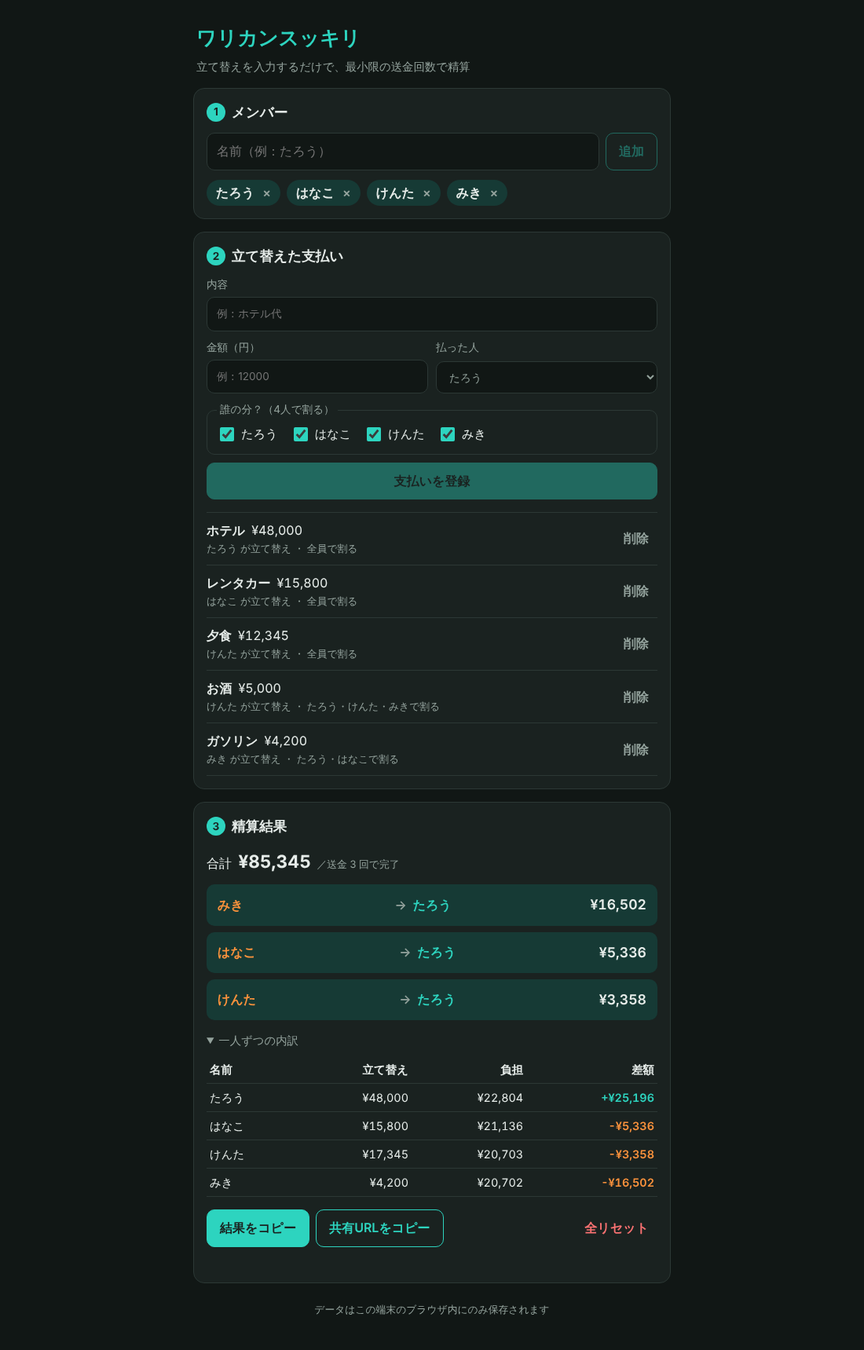
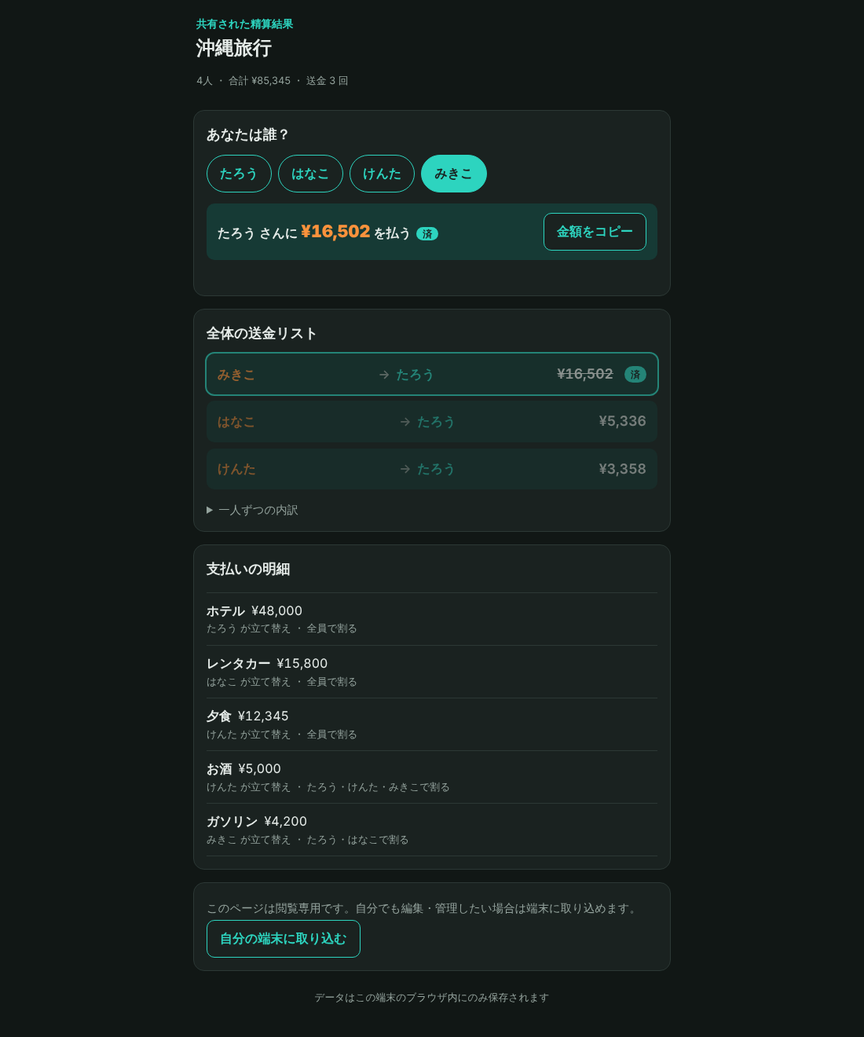
v1.0 に合わせて CLAUDE.md・README・記事・スクリーンショットを更新
Claude-Session: https://claude.ai/code/session_01XtNkcrsUhSRrryTtTZXjpU

diff --git a/docs/article.md b/docs/article.md
@@ -1,39 +1,68 @@
 # 【Claude Code】旅行の割り勘を「最小の送金回数」で精算するアプリ「ワリカンスッキリ」を作った
 
 ## 作ったもの
-旅行や飲み会で、立て替えた支払いを入力するだけで **「誰 → 誰：いくら」払えば精算が終わるか** を出すWebアプリです。
-ログイン不要・インストール不要で、スマホのブラウザからすぐに使えます。
+旅行や飲み会で立て替えた支払いを入力するだけで、**「誰 → 誰：いくら」払えば精算が終わるか** を出す Web アプリです。
+ログイン不要・インストール不要で、スマホのブラウザからすぐ使えます。
 
 - 公開 URL：https://YOUR-VERCEL-URL.vercel.app
 - GitHub：https://github.com/saitaka29-stack/warikan-settle
 
-![スクリーンショット](./screenshot.png)
+| トップ | 精算（幹事） | 共有ビュー（参加者） |
+|---|---|---|
+| ![トップ](./screenshot-top.png) | ![精算](./screenshot-settle.png) | ![共有](./screenshot-share.png) |
 
 ### できること
-- メンバーと支払い（内容・金額・払った人・誰の分か）を登録
-- 「お酒は飲んだ人だけで割る」のような **一部のメンバーだけの割り勘** に対応
-- 精算リストを表示（4 人なら最大 3 回の送金で完了）
-- 結果をコピーして LINE に貼れる／入力内容ごと **共有 URL** で渡せる
-- 入力内容はブラウザに自動保存（再読み込みしても消えない）
+- 旅行・飲み会ごとに **イベント** を作って管理（一覧で精算状況が分かる）
+- メンバーと支払い（内容・金額・払った人・誰の分か）を登録。「お酒は飲んだ人だけで割る」のような **一部のメンバーだけの割り勘** に対応
+- **最小に近い送金回数の精算リスト**（4 人なら最大 3 回）と、送金ごとの **精算済みチェック**
+- **参加者用の共有ページ**：リンクを開いて「あなたは誰？」で名前を選ぶと、自分が誰にいくら払うかが大きく表示される
+- 入力内容はブラウザに自動保存（サーバーには送らない）
 
 ## 誰のため？
-友人・家族・サークルの旅行や飲み会で **幹事をする人** のためのツールです。
+| ペルソナ | 困りごと |
+|---|---|
+| **幹事**（友人旅行や飲み会でいつも立て替える人） | 「ホテル代は A さん、レンタカーは B さん、夕食は C さん、お酒は飲んだ人だけ…」と立て替えが入り組むと、最後の精算でスプレッドシートとにらめっこ。全員が全員に送金すると回数も多い |
+| **参加者**（LINE でリンクを受け取る人） | 計算は任せたいが「結局自分はいくら、誰に払えばいいの？」が分からない。アプリの登録やインストールはしたくない |
 
-「ホテル代はAさん、レンタカーはBさん、夕食はCさん、お酒は飲んだ人だけ…」と立て替えが入り組むと、
-最後の精算でスプレッドシートとにらめっこすることになります。全員が全員に送金すると回数も多くなります。
-そこで「入力したら精算の答えだけ出る」1 機能特化のアプリにしました。
+## 要件定義の流れ（T-04〜T-06）
+最初は「幹事が 1 画面で入力して精算リストを出す」MVP を作りました。その後、ユーザーストーリーマップ → 情報設計 → 要件定義書の順に整理し直したところ、2 つの見落としに気づきました。
+
+### T-04 ユーザーストーリーマップ
+行動フロー（バックボーン）をペルソナ別に書き、機能を MVP / v1.0 / v2.0 に分けました。
+
+![ユーザーストーリーマップ](./user-story-map.png)
+
+- 幹事：イベントを作る → メンバーを登録する → 支払いを記録する → 精算額を確認する → 参加者に共有する → **精算完了を管理する**
+- 参加者：共有リンクを開く → 自分を選ぶ → 自分の送金額を確認する → 送金する
+
+**気づき①**：MVP は幹事のことしか考えておらず、**参加者は貼られたテキストから自分の行を探すしかなかった**。また、幹事の「最後まで回収し終える」という⑥がまるごと抜けていた。
+
+### T-05 情報設計（サイトマップ）
+```
+トップ（/）……………… イベント一覧
+└── イベント詳細（/events/:id）
+    ├── メンバー / 支払い / 精算（タブ）
+共有ビュー（/share#s=…）… 参加者用。リンクからのみ開く
+```
+**気づき②**：幹事のメンタルモデルは「旅行ごとに精算する」なので、**イベントを入れ物にする**のが自然。階層は 3 層以内、精算までトップから 2 クリック、参加者はリンクを開くだけ（0 クリック）で結果に着く構成にしました。
+
+### T-06 要件定義書
+テンプレート（概要 / ユーザーストーリー / 機能要件 / 非機能要件 / 制約条件 / 画面遷移 / 参考デザイン）に沿って、機能を F-01〜F-18 として Phase 付きで整理しました。
+「サーバーに送らない」「金額は整数円・合計は必ず一致」なども非機能要件・制約として明文化しています。
 
 ## 技術スタック
 | 分類 | 使用技術 |
 |------|----------|
 | フロントエンド | React 19 / TypeScript / Vite |
-| テスト | Vitest |
+| ルーティング | History API（ライブラリなし）＋ Vercel の rewrite |
+| データ保存 | localStorage ／ URL ハッシュ（サーバー・DB なし） |
+| テスト | Vitest（29 件） |
 | Lint | oxlint |
 | 動作確認・スクショ | Playwright |
 | ホスティング | Vercel |
 
-**サーバーも DB も使っていません。** データは `localStorage` と URL ハッシュ（`#s=...`）だけで扱うので、
-個人の支払い情報が外部に送られることはありません（URL ハッシュはサーバーに送信されない部分です）。
+**サーバーも DB も使っていません。** 共有リンクはイベントの内容を URL の `#` 以降に埋め込む方式で、`#` 以降はサーバーに送信されません。
+ログインなしで個人の金銭情報を預からないため、Supabase などはあえて使いませんでした。
 
 ### 精算アルゴリズム
 1. 各支払いを対象者で割る。端数は先頭の人から 1 円ずつ配り、**合計が必ず一致**するようにする
@@ -41,58 +70,70 @@
 3. 受け取る人と払う人を金額の大きい順に並べ、最大同士を相殺していく（貪欲法）→ 送金は最大 N−1 回
 
 ## 使った Claude Code の機能
-### 1. 要件定義書 ＋ `@` 参照
-最初に `docs/requirements.md` に「誰の・何を・どう解決するか」「やらないこと」「成功の基準」を書きました。
-CLAUDE.md に「要件は docs/requirements.md を正とする」と書き、追加の指示を出すときも `@docs/requirements.md` で
-ファイルを直接渡すことで、要件からぶれないようにしています。
-
-### 2. `/init` で CLAUDE.md を生成 → ルールを追記
-`/init` でコマンド一覧などの土台を作り、プロジェクト固有のルールを追記しました。特に効いたのはこの 3 つです。
+### 1. `/init` で CLAUDE.md を生成 → ルールを追記
+`/init` で土台を作り、プロジェクト固有のルールを追記しました。効いたのはこのあたりです。
 - **バックエンドを追加しない**（データはブラウザ内だけ）
 - **計算ロジックは `src/lib/` の純粋関数に置き、変更したら必ずテストを更新**
 - **金額は整数（円）で扱い、端数を配っても合計が必ず一致すること**
+- 保存形式を変えるときは `version` を上げ、古い形式も読めるようにする
 
-お金の計算は 1 円ずれるだけで信用を失うので、「合計一致」をルールとして明文化したのがポイントです。
+さらに、要件定義書・ストーリーマップ・サイトマップ・設計書の場所を CLAUDE.md に書いておき、
+「`@docs/requirements.md` を読んで、この要件で実装を進めて」と指示すれば同じ前提で作業できる状態にしました。
 
-### 3. Plan Mode で設計 → 確認 → 実装
-いきなりコードを書かせず、Plan Mode でデータモデル・精算アルゴリズム・保存方式・画面構成・テスト項目・検証方法を
-`docs/plan.md` にまとめさせ、内容を確認してから実装に進みました。
-実装順も「ロジック＋テスト → UI → E2E 確認」と決めたので、UI を作る前に計算の正しさをテストで保証できました。
+### 2. Plan Mode で設計 → 確認 → 実装
+いきなりコードを書かせず、Plan Mode で設計してから実装しました。
+- **MVP**：データモデル・精算アルゴリズム・保存方式・画面構成・テスト項目を `docs/plan.md` に設計
+- **v1.0**：T-04〜T-06 の成果物を読ませたうえで再設計し、`docs/plan-v1.0.md` を **確認・承認してから** 実装へ
 
-### 4. テスト・Lint・ビルドを回しながら実装
-`npm test`（10 件）→ `npm run lint` → `npm run build` を通し、最後に Playwright で
-「4 人・5 件の支払いを入力 → 精算 → コピー → 再読み込み → 共有 URL で復元」まで実際のブラウザで確認しました。
-README のスクリーンショットもこのとき撮影しています。
+v1.0 の設計では「データモデルを v2 にして旧データを移行する」「精算済みは送金キーで持ち、支払いが変わったら自然に外れるようにする」「ルーティングはライブラリなしで History API」など、
+実装前に方針を決められたので、手戻りがほとんどありませんでした。
 
-### 5. Git ワークフロー
-要件定義・CLAUDE.md・設計・実装の区切りでコミットし、GitHub に push → Vercel と連携してデプロイしました。
+### 3. テスト・Lint・ビルド → Playwright で E2E 確認
+実装順は「ロジック＋テスト → 画面 → E2E 確認」。`npm test`（29 件）→ `npm run lint` → `npm run build` を通したうえで、
+Playwright で「イベント作成 → メンバー 4 人 → 支払い 5 件（編集含む）→ 精算済みチェック → 共有リンクを別ブラウザで開く → 自分を選ぶ → 取り込む」
+まで実際のブラウザで確認しました。README のスクリーンショットもこのとき撮影しています。
+
+### 4. Git ワークフロー
+「Vite 作成 → 要件・CLAUDE.md・設計 → ロジック＋テスト → 画面 → ドキュメント」の区切りでコミットし、GitHub に push → Vercel と連携してデプロイしました。
 
 ## 所要時間
-約 1 時間半（要件定義 20 分／設計 15 分／実装・テスト 40 分／デプロイ・README・記事 15 分）
-※ ご自身の実績に合わせて修正してください
+（ここにご自身の実績を記入：例）要件定義 ◯分／設計 ◯分／実装・テスト ◯分／デプロイ・README・記事 ◯分
 
 ## つまずいたところと解決方法
 ### ① 日本語を含むデータを共有 URL にすると壊れる
-共有 URL は状態を JSON → base64 にしてハッシュに入れていますが、`btoa()` は日本語（マルチバイト文字）を直接扱えず例外になります。
-→ `TextEncoder` で UTF-8 のバイト列にしてから base64url に変換するようにし、
-「日本語・絵文字を含む状態を encode → decode で復元できる」テストを追加して解決しました。
+共有 URL は JSON → base64 にしてハッシュに入れていますが、`btoa()` は日本語を直接扱えず例外になります。
+→ `TextEncoder` で UTF-8 のバイト列にしてから base64url に変換。「日本語・絵文字を含むイベントを往復できる」テストを追加しました。
 
 ### ② 割り切れない金額で合計が合わない
-10,000 円を 3 人で割ると 3,333.33… 円。四捨五入すると合計が 9,999 円になってしまいます。
-→ 全員に切り捨て額を配り、余りを先頭の人から 1 円ずつ配る方式に統一。CLAUDE.md にもルールとして書きました。
+10,000 円を 3 人で割ると 3,333.33… 円。四捨五入すると合計が 9,999 円になります。
+→ 全員に切り捨て額を配り、余りを先頭の人から 1 円ずつ配る方式に統一し、CLAUDE.md にもルールとして書きました。
 
-### ③ 後から追加したメンバーが「誰の分？」に入らない
-最初は「チェックされた人」を状態に持つ設計にしていましたが、これだと支払い入力中にメンバーを追加すると、その人が対象から漏れてしまいます。
-→ 「対象から外した人」を状態に持つように反転させ、既定は常に全員が対象になるようにしました。
+### ③ 支払いを直したら「精算済み」チェックが嘘になる
+精算済みを「何番目の送金か」で持つと、支払いを編集して送金内容が変わっても、チェックだけ残ってしまいます。
+→ チェックを「送る人 > 受け取る人 : 金額」というキーで持つように設計。送金内容が変わればキーが一致しなくなり、**自動でチェックが外れる**ようにしました（テストで確認）。
 
-### ④ 作業セッションが途中で再起動して Plan Mode が解除された
-クラウド環境で作業していたため、設計中にセッションが再起動して Plan Mode が抜けてしまいました。
-→ 設計内容をプランファイルから `docs/plan.md` にコピーしてリポジトリに残し、それを正として実装を続けました。
-CLAUDE.md にも「設計は docs/plan.md を正とする」と書いておくことで、次のセッションでも同じ前提で作業できます。
+### ④ MVP 版のデータが新しい形式で読めなくなる
+複数イベント対応で保存形式が変わるため、MVP 版で入力したデータや、すでに送った共有リンクが開けなくなる問題がありました。
+→ 保存形式に `version` を持たせ、v1 のデータは「マイイベント」として自動移行。共有リンクも v1・v2 の両方を読めるようにしました。
+なお E2E テストで一度「移行されない」と失敗しましたが、原因はテスト手順側（先にページを開いたため空の v2 データが保存されていた）で、初回アクセス前にデータを仕込む形に直して確認しました。
+
+### ⑤ 型名 `Event` が DOM の `Event` とぶつかる
+「イベント」をそのまま `Event` 型にすると、ブラウザ標準の `Event` 型と紛らわしく、import 漏れでも型エラーになりません。
+→ `EventData` という名前にし、理由を CLAUDE.md に書いておきました。
+
+### ⑥ SPA の直アクセスが Vercel で 404 になる
+`/events/xxx` や `/share` を直接開くと、静的ホスティングでは該当ファイルがなく 404 になります。
+→ `vercel.json` で全パスを `index.html` に rewrite。アプリ側でも、存在しないイベントや URL はトップに戻すようにしました。
+
+### ⑦ 作業セッションが途中で再起動して Plan Mode が解除された
+クラウド環境で作業していたため、MVP の設計中にセッションが再起動して Plan Mode が抜けてしまいました。
+→ 設計内容を `docs/plan.md` としてリポジトリに残して実装を続け、v1.0 では Plan Mode で設計 → 承認 → 実装の流れをやり直しました。
 
 ## まとめ
-「1 機能に絞る」「要件定義書と CLAUDE.md でルールを先に決める」「Plan Mode で設計してから実装する」の流れにすることで、
-Claude Code に任せる部分が多くても、お金の計算という間違えられない部分をテストで守りながら完成させられました。
+最初に作った MVP は「計算機」としては動いていましたが、T-04〜T-06 でペルソナと行動フローを書き出すと、
+**参加者の体験**と**回収し終えるまでの管理**が抜けていたことに気づけました。
+要件定義書と CLAUDE.md でルールを先に決め、Plan Mode で設計してから実装する流れにしたことで、
+お金の計算という間違えられない部分をテストで守りながら、機能を広げられました。
 
 ## リンク
 - 公開 URL：https://YOUR-VERCEL-URL.vercel.app

diff --git a/README.md b/README.md
@@ -7,45 +7,65 @@
 - 公開 URL: https://YOUR-VERCEL-URL.vercel.app
 - 記事: （公開後に追記）
 
-![スクリーンショット（スマホ）](docs/screenshot.png)
+| トップ（イベント一覧） | 精算タブ（幹事） | 共有ビュー（参加者） |
+|---|---|---|
+| ![トップ](docs/screenshot-top.png) | ![精算タブ](docs/screenshot-settle.png) | ![共有ビュー](docs/screenshot-share.png) |
 
 <details>
-<summary>PC・ダークモード表示</summary>
+<summary>支払い入力・PC／ダークモード表示</summary>
 
-![スクリーンショット（PC・ダーク）](docs/screenshot-dark.png)
+![支払いタブ](docs/screenshot-expenses.png)
+![PC・ダーク](docs/screenshot-dark.png)
 </details>
 
 ## 誰のため？
-友人・家族・サークルの旅行や飲み会で **幹事をする人**。
-立て替えが複数人・複数回に分かれると「結局だれが誰にいくら？」の計算が面倒で間違えやすい、という課題を解決します。
+| ペルソナ | 困りごと | このアプリで |
+|---|---|---|
+| **幹事**（立て替えをまとめる人） | 立て替えが複数人・複数回に分かれると計算が面倒で、送金回数も多い | 支払いを入力するだけで最小回数の送金リスト。誰が払い終えたかもチェックできる |
+| **参加者**（リンクを受け取る人） | 結局自分はいくら・誰に払えばいいか分からない | リンクを開いて名前を選ぶだけで、自分の送金額と相手が大きく表示される |
 
 ## 主な機能
-- メンバーの追加・削除
-- 支払いの登録（内容・金額・払った人・**誰の分か**）— 「お酒は飲んだ人だけ」のような一部割りに対応
-- 一人ずつの内訳（立て替え額・負担額・差額）
-- 最小限に近い送金回数の精算リスト（N 人なら最大 N−1 回）
-- 結果をテキストでコピー（LINE にそのまま貼れる）
-- 共有 URL（入力内容を URL ハッシュに埋め込み。サーバーには送信されません）
+- **イベント管理**：旅行・飲み会ごとにイベントを作成。一覧で合計・人数・精算状況が分かる
+- **メンバー**：追加・名前変更・削除
+- **支払い**：内容・金額・払った人・**誰の分か**（「お酒は飲んだ人だけ」のような一部割り）を登録、編集・削除
+- **精算**：最小に近い送金回数のリスト（N 人なら最大 N−1 回）、一人ずつの内訳、送金ごとの **精算済みチェック**
+- **共有**：参加者用の閲覧ページへのリンク（スマホの共有シート対応）、LINE に貼れるテキストのコピー
+- **参加者用ページ**：「あなたは誰？」で自分を選ぶと、自分の送金を強調表示。金額コピー、端末への取り込み
 - ブラウザへの自動保存、ダークモード、スマホ対応
+
+## ページ構成
+```
+トップ（/）
+└── イベント詳細（/events/:id）
+    ├── メンバー（?tab=members）
+    ├── 支払い  （?tab=expenses）
+    └── 精算    （?tab=settle）
+
+共有ビュー（/share#s=…）※参加者向け。共有リンクからのみ開く
+```
 
 ## 技術スタック
 | 分類 | 使用技術 |
 |------|----------|
 | フロントエンド | React 19 / TypeScript / Vite |
-| テスト | Vitest（精算ロジック・保存形式の単体テスト） |
+| ルーティング | History API（ライブラリなし）＋ Vercel rewrite |
+| データ保存 | localStorage ／ URL ハッシュ（サーバー・DB なし） |
+| テスト | Vitest（精算・保存・reducer・ルーティングの単体テスト 29 件） |
 | Lint | oxlint |
 | E2E 確認・スクショ | Playwright |
 | ホスティング | Vercel（静的サイト） |
 | 開発 | Claude Code（`/init`・CLAUDE.md・Plan Mode） |
-
-サーバー・DB はありません。状態は `localStorage` と URL ハッシュだけで扱います。
 
 ## 精算のしくみ
 1. 各支払いを対象者で割る。割り切れない端数は先頭の人から 1 円ずつ配り、**合計が必ず支払額と一致**するようにする
 2. メンバーごとに「立て替えた額 − 負担すべき額」＝差額を出す（全員の合計は必ず 0）
 3. 受け取る人・払う人をそれぞれ金額の大きい順に並べ、最大同士を相殺していく（貪欲法）
 
-ロジックは `src/lib/settle.ts` の純粋関数で、`src/lib/settle.test.ts` で「精算どおりに送金すると全員 0 円になる」ことを検証しています。
+ロジックは `src/lib/settle.ts` の純粋関数で、「精算どおりに送金すると全員 0 円になる」ことをテストで検証しています。
+
+## プライバシー
+- データは端末のブラウザ（localStorage）にのみ保存されます
+- 共有リンクはイベントの内容を URL の `#` 以降に埋め込みます。`#` 以降はサーバーに送信されませんが、**リンクを知っている人は内容を見られます**
 
 ## 開発
 ```bash
@@ -56,16 +76,14 @@ npm run lint     # Lint
 npm run build    # 型チェック + 本番ビルド
 ```
 
-## ディレクトリ
-```
-src/
-  lib/         計算・保存などの純粋ロジック（テスト付き）
-  components/  画面の 3 セクション（メンバー / 支払い / 精算結果）
-docs/
-  requirements.md  要件定義書
-  plan.md          Plan Mode で作った設計書
-CLAUDE.md          Claude Code 用のプロジェクトルール
-```
+## ドキュメント
+| ファイル | 内容 |
+|---|---|
+| [docs/requirements.md](docs/requirements.md) | 要件定義書（T-06） |
+| [docs/user-story-map.md](docs/user-story-map.md) | ユーザーストーリーマップ（T-04）＋[図](docs/user-story-map.png) |
+| [docs/information-architecture.md](docs/information-architecture.md) | サイトマップ・ページ一覧（T-05） |
+| [docs/plan.md](docs/plan.md) / [docs/plan-v1.0.md](docs/plan-v1.0.md) | Plan Mode で作った設計書（MVP / v1.0） |
+| [CLAUDE.md](CLAUDE.md) | Claude Code 用のプロジェクトルール |
 
 ## ライセンス
 MIT

diff --git a/CLAUDE.md b/CLAUDE.md
@@ -5,7 +5,13 @@ This file provides guidance to Claude Code (claude.ai/code) when working with co
 ## プロジェクト概要
 割り勘精算アプリ「ワリカンスッキリ」。旅行・飲み会で複数人が立て替えた支払いを入力すると、
 最小限の送金回数で清算できる「誰 → 誰：いくら」のリストを出す。
-要件は `docs/requirements.md`、設計は `docs/plan.md` を正とする（機能追加・変更時はまずここを確認）。
+ペルソナは「幹事」（入力・管理する人）と「参加者」（共有リンクで自分の送金を確認する人）の 2 種。
+
+機能追加・変更時はまず以下を確認する（要件・画面構成の正はここ）:
+- `docs/requirements.md` — 要件定義書（T-06）。機能 ID（F-01〜）と Phase（MVP / v1.0 / v2.0）
+- `docs/user-story-map.md` — ユーザーストーリーマップ（T-04）
+- `docs/information-architecture.md` — サイトマップ・ページ一覧（T-05）
+- `docs/plan-v1.0.md` — 現行の設計（`docs/plan.md` は MVP 時の設計で、履歴として残している）
 
 ## コマンド
 - `npm run dev` — 開発サーバー（Vite）
@@ -13,15 +19,28 @@ This file provides guidance to Claude Code (claude.ai/code) when working with co
 - `npm run lint` — oxlint
 - `npm test` — Vitest を 1 回実行
 - 単一テスト: `npx vitest run src/lib/settle.test.ts -t "テスト名"`
+- `npm run preview` — ビルド結果を確認（SPA フォールバックあり。`/events/...` の直アクセスも確認できる）
 
 ## 技術スタック
 React 19 + TypeScript + Vite。サーバー・DB なしの静的 SPA として Vercel にデプロイする。
+
+## アーキテクチャ
+- 状態は `App.tsx` の `useReducer` 1 つ（`Store = { version: 2, events: EventData[] }`）。変更のたびに localStorage（`warikan-settle:v2`）へ保存。
+  旧 MVP 形式（`warikan-settle:v1`）は `loadStore()` が「マイイベント」として移行する
+- ルーティングはライブラリなし: `src/lib/route.ts`（純粋なパース）＋ `src/router.ts`（History API・`navigate`・`useRoute`）＋ `components/Link.tsx`。
+  SPA なので `vercel.json` で全パスを `index.html` に rewrite している
+  - `/` トップ ・ `/events/:id?tab=members|expenses|settle` イベント詳細 ・ `/share#s=…` 参加者用の閲覧ページ
+  - タブ切り替えは `replace`（戻るボタンで一覧に戻る）
+- 共有 URL はイベントを JSON → UTF-8 → base64url にして**ハッシュ**に入れる（サーバーに送られない）。`decodeShare` は旧 v1 形式も読む
+- 精算済みは `EventData.settled` に送金キー `from>to:amount` で持つ。送金内容が変われば自然に一致しなくなり外れる（`summarize` で集計）
+- 型名は DOM の `Event` と衝突しないよう `EventData` にしている
 
 ## プロジェクト固有ルール
 - **バックエンドを追加しない**。データはブラウザ内（localStorage と URL ハッシュ）だけで扱う。外部 API・解析タグも入れない。
 - **計算ロジックは `src/lib/` の純粋関数に置く**。React コンポーネントには計算を書かない。`src/lib/` を変更したら必ずテストを追加・更新し `npm test` を通す。
 - **金額は整数（円）で扱う**。小数を経由させない。端数は決定的なルールで配分し、各支払いの負担額の合計が支払額と必ず一致すること。
-- メンバー・支払いは `id`（`crypto.randomUUID()`）で参照し、名前で参照しない（同名や改名に強くするため）。
-- 保存データ／共有 URL の形式を変えるときは `version` を上げ、古い形式を読み込めるようにする。
+- イベント・メンバー・支払いは `id`（`crypto.randomUUID()`）で参照し、名前で参照しない（同名や改名に強くするため）。id は reducer の外（呼び出し側）で生成して action に渡す。
+- 保存データ／共有 URL の形式を変えるときは `version` を上げ、古い形式を読み込めるようにする（現行は v2。v1 の読み込みを壊さない）。
+- 参加者用の `/share` は読み取り専用。編集 UI を置かない。
 - UI の文言は日本語。スマホ幅（375px）で崩れないことを確認する。
 - コミット前に `npm run lint && npm test && npm run build` がすべて通ること。
